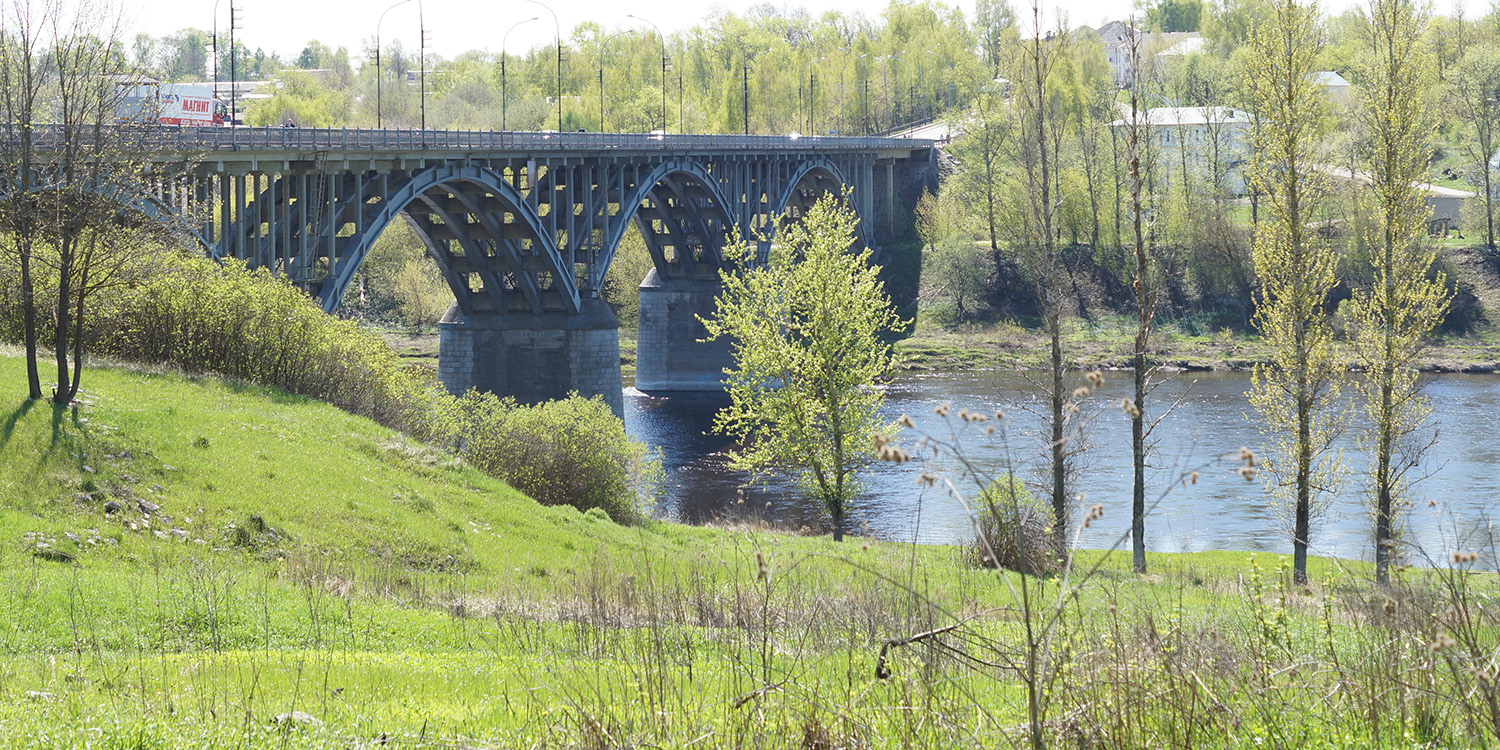
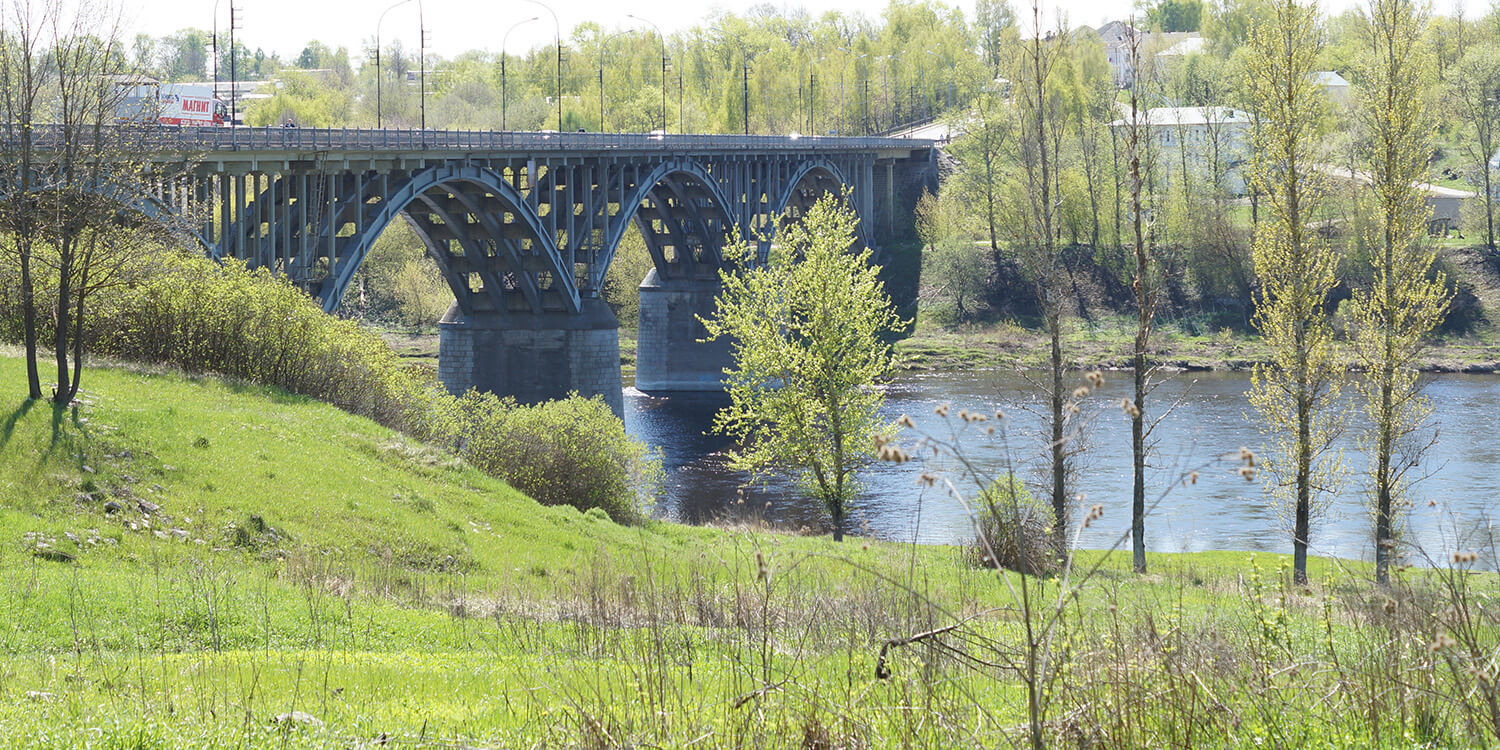
Minified photos + added preview

diff --git a/src/App.tsx b/src/App.tsx
@@ -7,13 +7,13 @@ function App() {
     <main id="main">
       <WolfGallery
         photos={[
-          { id: 1, src: '/photos/1.jpg', description: 'Norway 1' },
-          { id: 2, src: '/photos/2.jpg', description: 'Norway 2' },
-          { id: 3, src: '/photos/3.jpg', description: 'Norway 3' },
-          { id: 4, src: '/photos/4.jpg', description: 'Norway 4' },
-          { id: 5, src: '/photos/5.jpg', description: 'Norway 5' },
-          { id: 6, src: '/photos/6.jpg', description: 'Norway 6' },
-          { id: 7, src: '/photos/7.jpg', description: 'Norway 7' },
+          { id: 1, src: '/photos/1.jpg', preview: '/photos/preview/1.jpg', description: 'Norway 1' },
+          { id: 2, src: '/photos/2.jpg', preview: '/photos/preview/2.jpg', description: 'Norway 2' },
+          { id: 3, src: '/photos/3.jpg', preview: '/photos/preview/3.jpg', description: 'Norway 3' },
+          { id: 4, src: '/photos/4.jpg', preview: '/photos/preview/4.jpg', description: 'Norway 4' },
+          { id: 5, src: '/photos/5.jpg', preview: '/photos/preview/5.jpg', description: 'Norway 5' },
+          { id: 6, src: '/photos/6.jpg', preview: '/photos/preview/6.jpg', description: 'Norway 6' },
+          { id: 7, src: '/photos/7.jpg', preview: '/photos/preview/7.jpg', description: 'Norway 7' },
         ]}
       />
     </main>

diff --git a/src/WolfGallery/PreviewGallery/index.tsx b/src/WolfGallery/PreviewGallery/index.tsx
@@ -42,7 +42,7 @@ export const PreviewGallery: React.FC<PreviewGalleryProps> = ({
                             className={style.previewGalleryPreview}
                         >
                             <img
-                                src={photo.src}
+                                src={photo.preview}
                                 alt={photo.description}
                                 loading="lazy"
                                 className={style.previewGalleryImage}

diff --git a/src/WolfGallery/types.ts b/src/WolfGallery/types.ts
@@ -1,6 +1,7 @@
 export interface Photo {
     id: number;
     src: string;
+    preview: string;
     description: string;
 }
 
